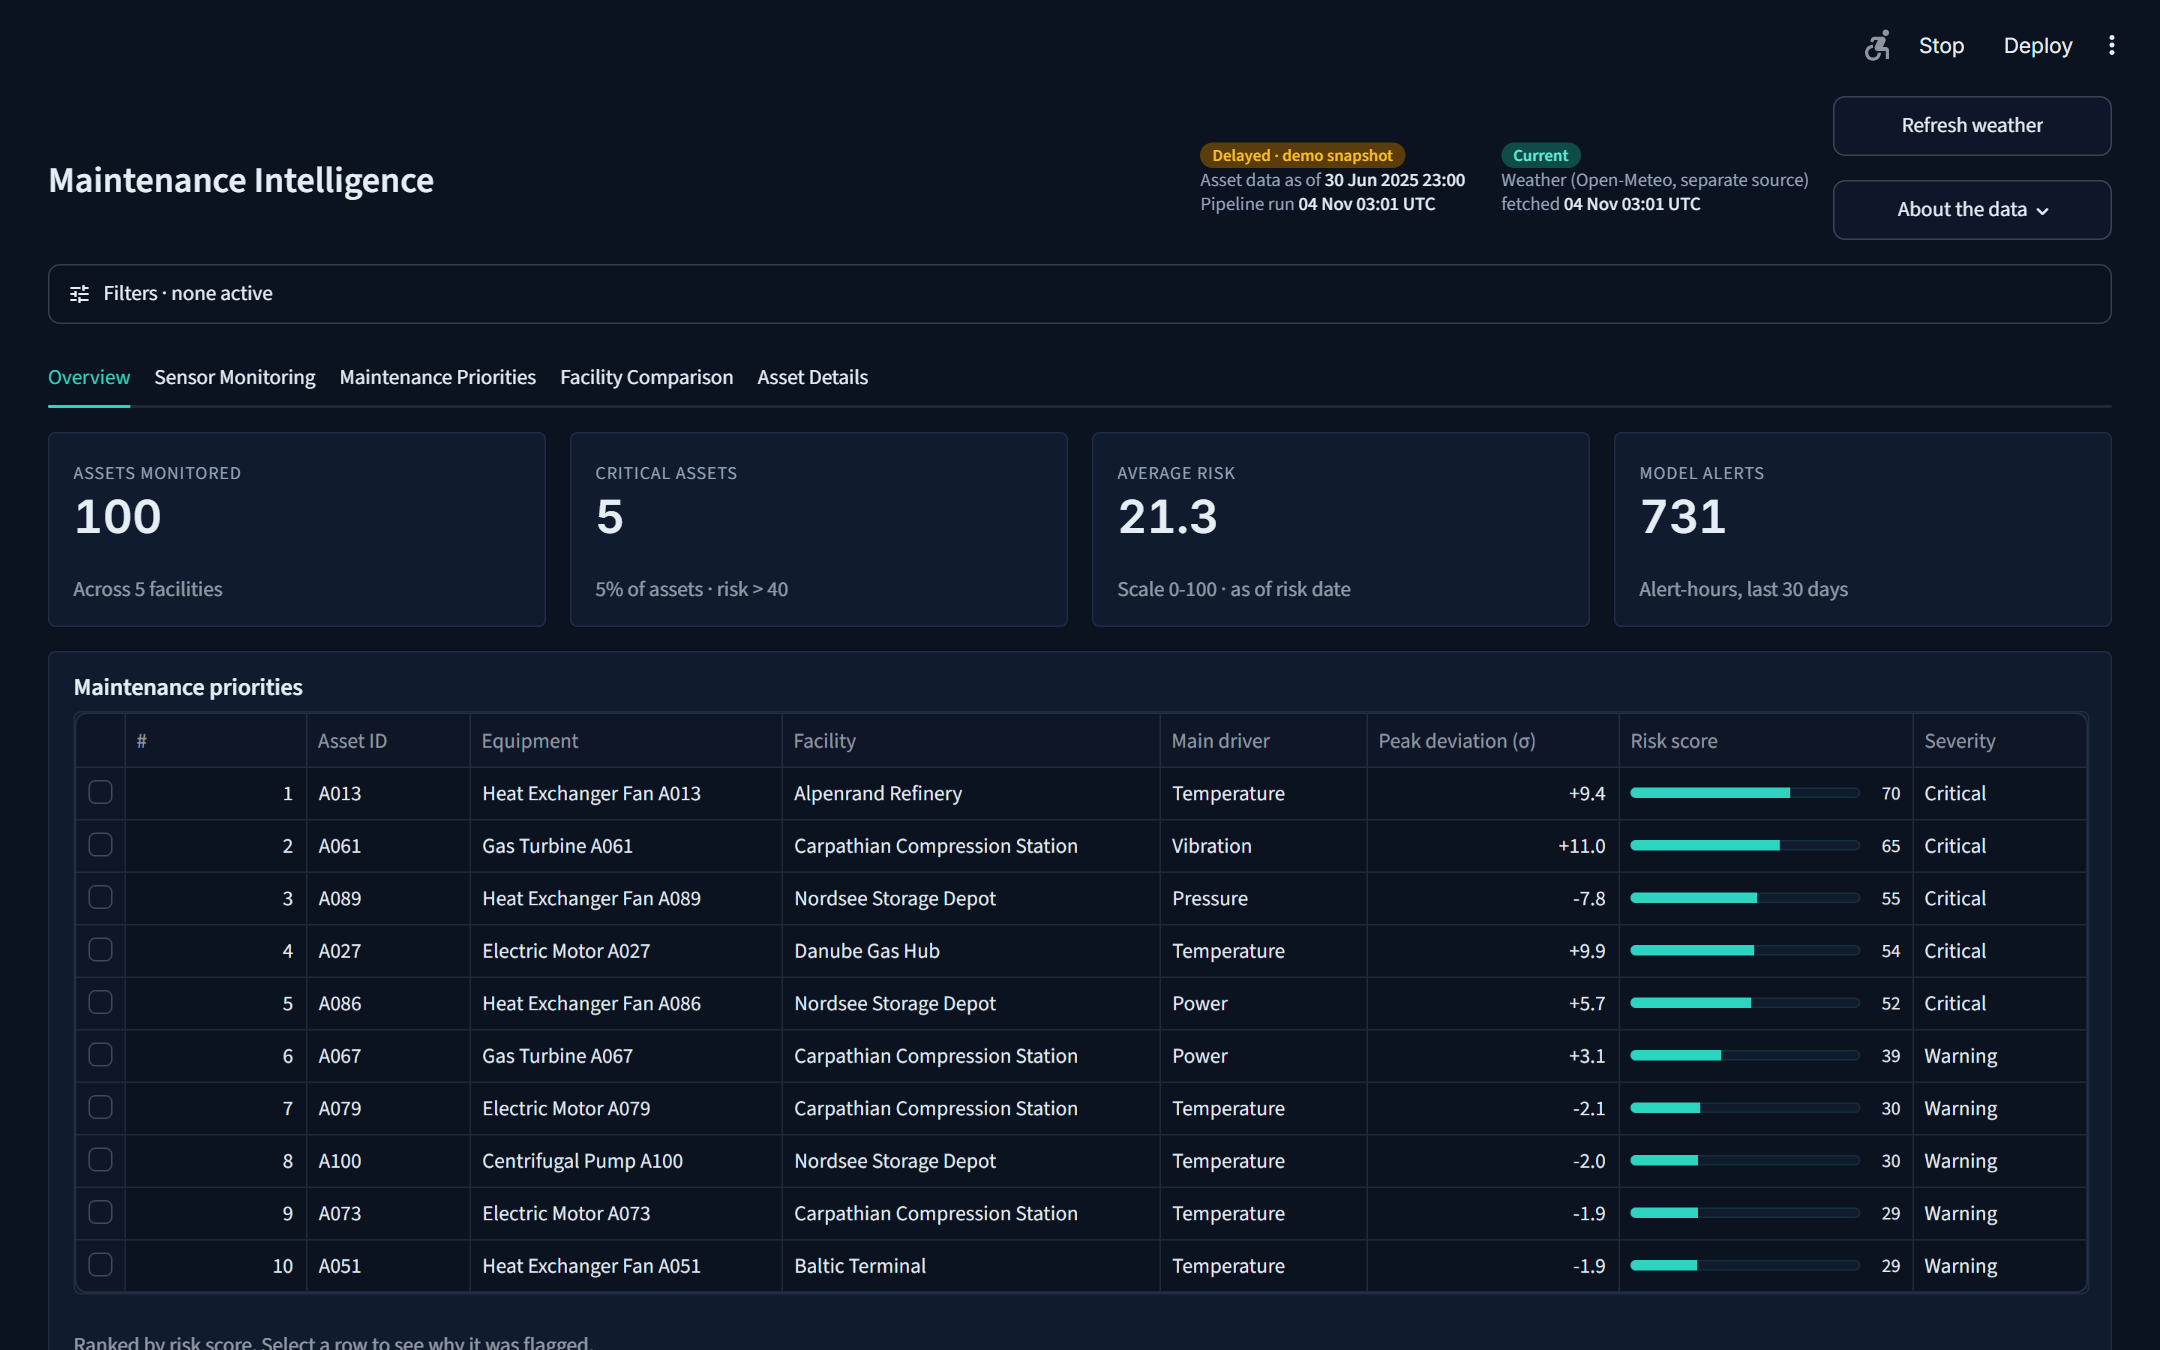
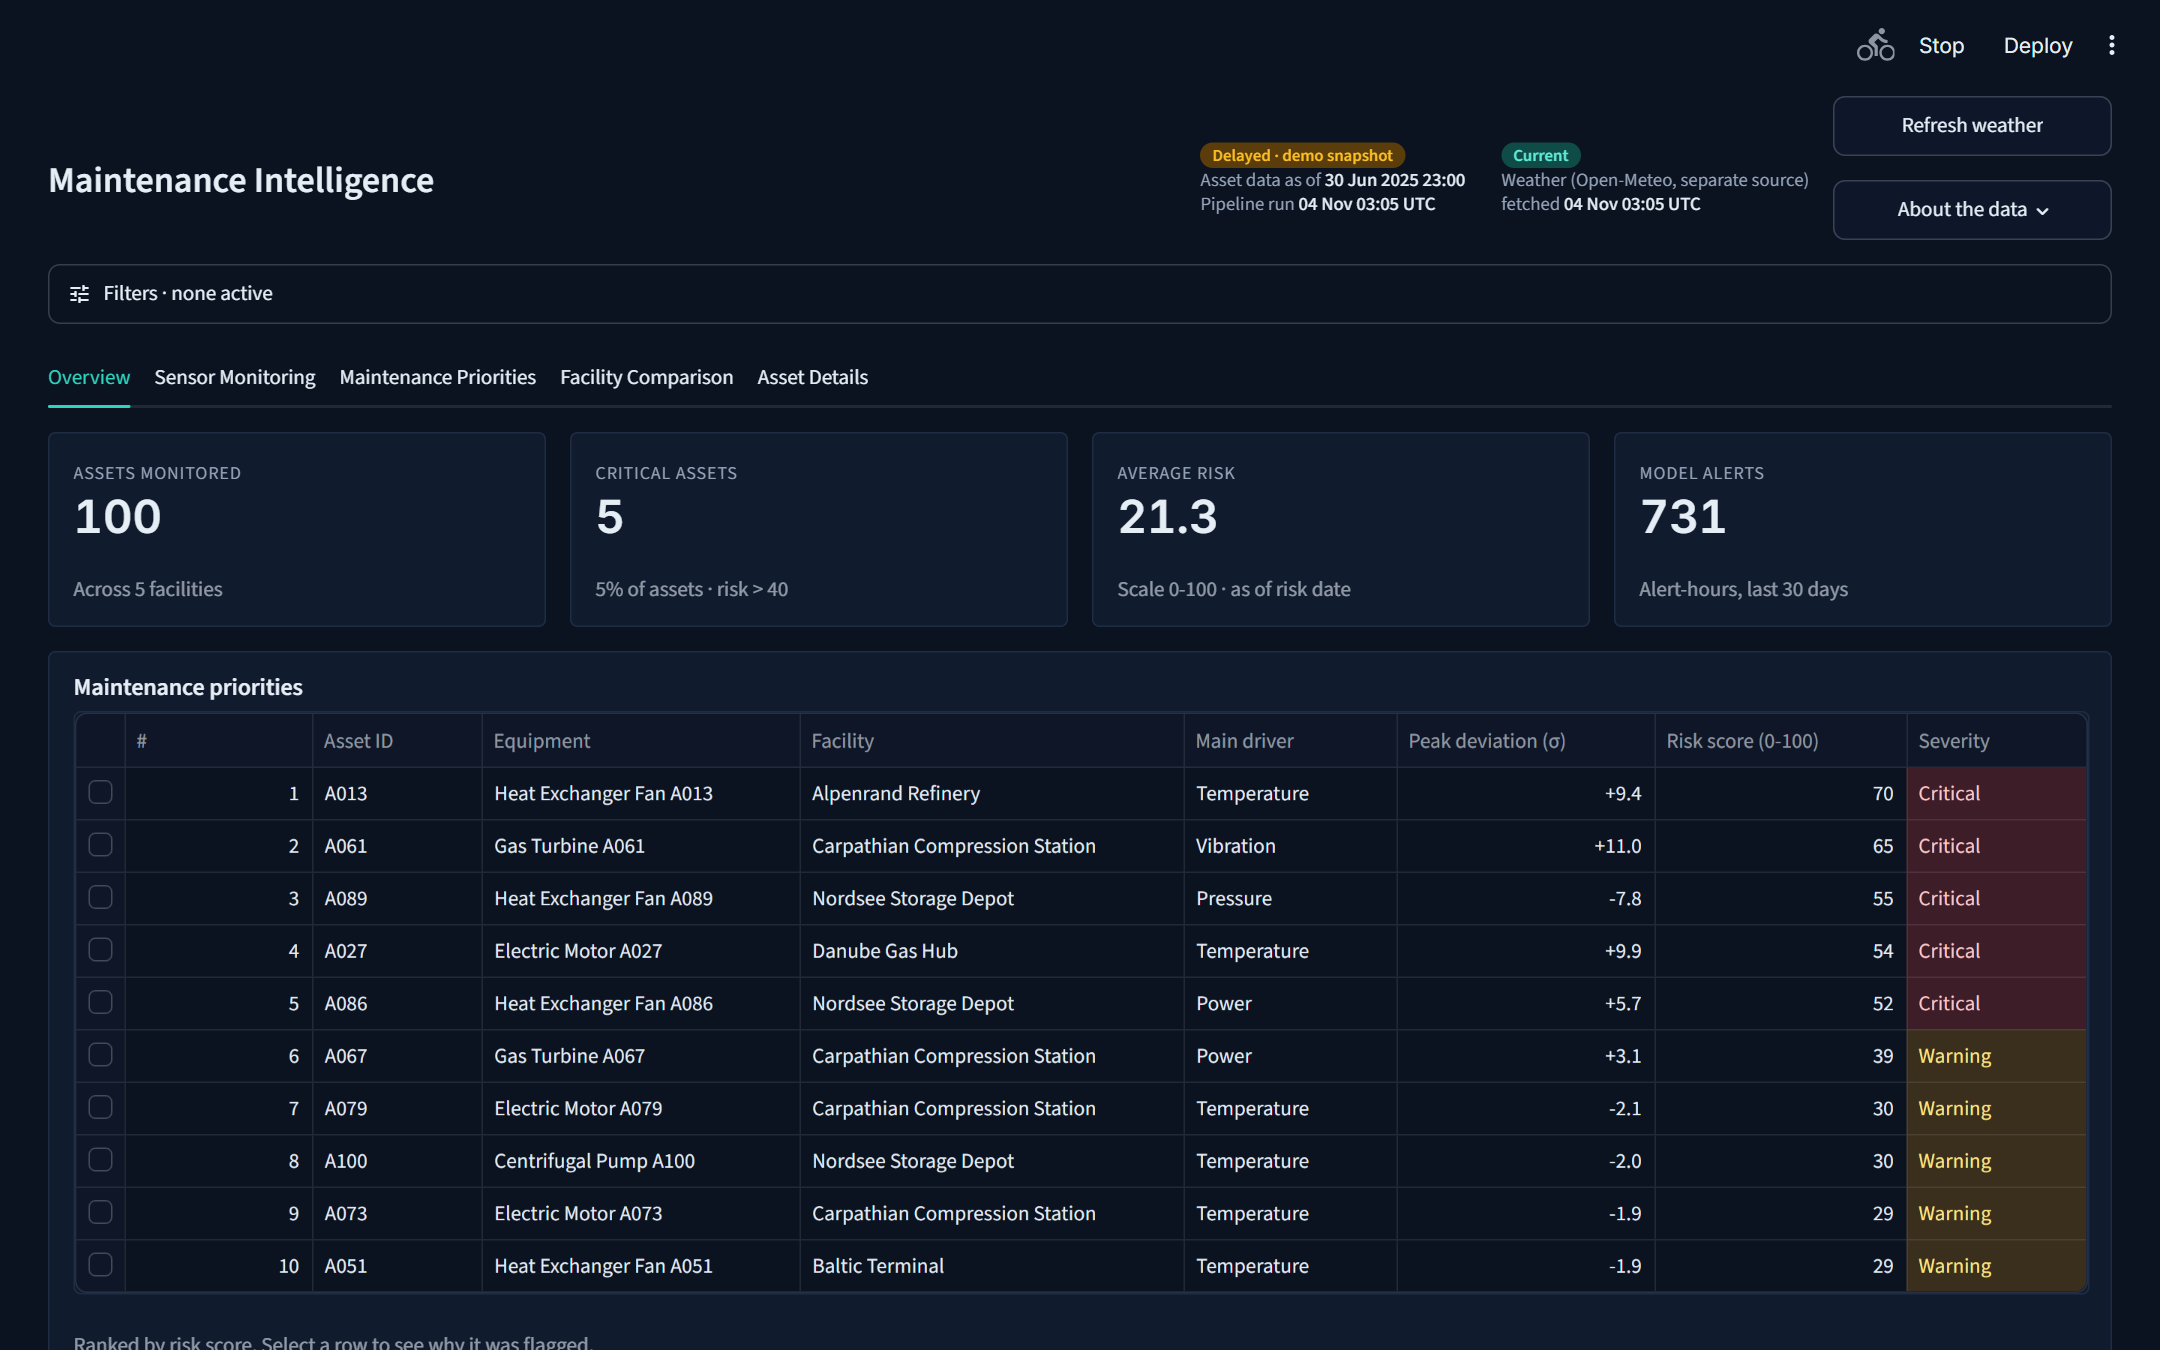
UI audit fixes: severity colours, consistent colour bands, Facility Comparison labels, mobile header

diff --git a/app.py b/app.py
@@ -30,8 +30,9 @@ button[data-baseweb="tab"][aria-selected="true"] { font-weight: 600; color: #2dd
 [class*="st-key-card"] [data-testid="stPlotlyChart"] { background: transparent; border: 0; padding: 0; }
 .fresh { display: flex; gap: 1.5rem; justify-content: flex-end; font-size: .78rem; color: #94a3b8; line-height: 1.35; }
 .fresh b { color: #e5edf5; font-weight: 500; }
-.pill { padding: 1px 8px; border-radius: 99px; font-size: .7rem; font-weight: 600; margin-right: .4rem; }
+.pill { white-space: nowrap; padding: 1px 8px; border-radius: 99px; font-size: .7rem; font-weight: 600; margin-right: .4rem; }
 .ok { background: #0f4c47; color: #5eead4; } .warn { background: #5a3d0a; color: #fbbf24; } .bad { background: #5a1414; color: #f87171; }
+@media (max-width: 640px) { .fresh { flex-direction: column; gap: .5rem; justify-content: flex-start; } .block-container { padding: 2.6rem 1rem 2rem; } }
 </style>""", unsafe_allow_html=True)
 pio.templates["mi"] = pio.templates["plotly_dark"]
 pio.templates["mi"].layout.update(paper_bgcolor="rgba(0,0,0,0)", plot_bgcolor="rgba(0,0,0,0)", font_family="Inter",
@@ -57,7 +58,8 @@ R, assets, fac = D["readings"], D["assets"], D["facilities"]
 COLORS = {"Low": "#14b8a6", "Medium": "#f59e0b", "High": "#ef4444"}  # teal / amber / red, always with a text label
 STATUS = {"Low": "Normal", "Medium": "Warning", "High": "Critical"}
 TAG = {"Low": ":green[Normal]", "Medium": ":orange[Warning]", "High": ":red[Critical]"}
-SCALE = [COLORS["Low"], COLORS["Medium"], COLORS["High"]]  # 15 -> 45 spans the Normal / Warning / Critical bands (25, 40)
+LO, HI = (25 - 15) / 30, (40 - 15) / 30  # Warning / Critical thresholds on the 15-45 colour range
+SCALE = [(0, COLORS["Low"]), (LO, COLORS["Low"]), (LO, COLORS["Medium"]), (HI, COLORS["Medium"]), (HI, COLORS["High"]), (1, COLORS["High"])]  # hard bands, not a blended gradient
 LAST = R.timestamp.max()
 H = 330  # standard chart height
 LBL = {"temperature_c": "Temperature (°C)", "vibration_mm_s": "Vibration (mm/s)", "pressure_bar": "Pressure (bar)", "power_kw": "Power (kW)"}
@@ -74,13 +76,21 @@ def sensor_fig(a, sensors, start, end, truth=True):
     fig = make_subplots(rows=len(sensors), cols=1, shared_xaxes=True, subplot_titles=[LBL[s] for s in sensors], vertical_spacing=0.08)
     ep = D["episodes"][(D["episodes"].asset_id == a) & (D["episodes"].end >= start) & (D["episodes"].start <= end)]
     for i, s in enumerate(sensors, 1):
-        fig.add_scatter(x=d.timestamp, y=d[s], mode="lines", line_width=1, name=s, showlegend=False, row=i, col=1)
+        fig.add_scatter(x=d.timestamp, y=d[s], mode="lines", line=dict(width=1, color="#94a3b8"), name=s, showlegend=False, row=i, col=1)
         al = d[d.alert]
         fig.add_scatter(x=al.timestamp, y=al[s], mode="markers", marker=dict(color=COLORS["High"], size=5),
                         name="Model alert", showlegend=i == 1, row=i, col=1)
         for e in ep.itertuples() if truth else []:
             fig.add_vrect(x0=e.start, x1=e.end, fillcolor="orange", opacity=0.2, line_width=0, row=i, col=1)
     return fig.update_layout(height=max(300, 230 * len(sensors)), margin=dict(t=30, b=10), legend_orientation="h")
+
+
+TINT = {"Critical": "background-color: rgba(239,68,68,.22); color: #fecaca", "Warning": "background-color: rgba(245,158,11,.2); color: #fde68a"}
+
+
+def tint(df, cols):
+    """Colour severity cells (text label stays, so colour is never the only cue)."""
+    return df.style.map(lambda v: TINT.get(v, ""), subset=cols)
 
 
 def reset():
@@ -149,11 +159,11 @@ with tabs[0]:
     with st.container(border=True, key="card_prio"):
         st.subheader("Maintenance priorities")
         top = T.head(10).reset_index(drop=True)
-        sel = st.dataframe(top.assign(rank=top.index + 1)[["rank", "asset_id", "asset_name", "facility", "driver_label", "peak_z", "risk", "status"]],
+        sel = st.dataframe(tint(top.assign(rank=top.index + 1)[["rank", "asset_id", "asset_name", "facility", "driver_label", "peak_z", "risk", "status"]], ["status"]),
                            hide_index=True, width="stretch", on_select="rerun", selection_mode="single-row", key="prio", column_config={
             "rank": st.column_config.NumberColumn("#", width="small"), "asset_id": "Asset ID", "asset_name": "Equipment", "facility": "Facility",
             "driver_label": "Main driver", "peak_z": st.column_config.NumberColumn("Peak deviation (σ)", format="%+.1f"),
-            "risk": st.column_config.ProgressColumn("Risk score", min_value=0, max_value=100, format="%.0f"), "status": "Severity"})
+            "risk": st.column_config.NumberColumn("Risk score (0-100)", format="%.0f"), "status": "Severity"})
         if sel.selection.rows:
             ss["d"] = top.asset_id[sel.selection.rows[0]]
             st.caption(f"**{ss['d']}**: {top.set_index('asset_id').explanation[ss['d']]}. Open the Asset Details tab for the full view.")
@@ -207,39 +217,41 @@ with tabs[0]:
                 "it does not estimate failure probability. The risk score blends anomalies with criticality and maintenance state to prioritise inspections.")
 
 with tabs[1]:
-    c = st.columns([2, 1, 1])
+    c = st.columns([2, 1, 1], vertical_alignment="bottom")
     a = c[0].selectbox("Asset", T.asset_id, format_func=lambda x: f"{x} · {T.set_index('asset_id').asset_name[x]}", key="m")
     s = c[1].selectbox("Sensor", ["All"] + SENSORS)
-    truth = c[2].checkbox("Show injected truth", False, help="Orange bands = synthetic fault episodes (evaluation labels)")
+    truth = c[2].toggle("Show injected truth", False, help="Orange bands = synthetic fault episodes (evaluation labels)")
     st.plotly_chart(sensor_fig(a, SENSORS if s == "All" else [s], as_of - pd.Timedelta(days=period), as_of, truth), width="stretch")
     st.caption("Red dots = Isolation Forest alerts. Idle (standby) hours show as low readings.")
 
 with tabs[2]:
-    n = int(st.number_input("Show top N assets", 1, len(T), min(15, len(T)), help=f"Shows the N highest-risk assets after filtering ({len(T)} match). Type a number or use +/-."))
+    n = int(st.columns([1, 4])[0].number_input("Show top N assets", 1, len(T), min(15, len(T)), help=f"Shows the N highest-risk assets after filtering ({len(T)} match). Type a number or use +/-."))
     top = T.head(n)
     cols = ["asset_id", "asset_type", "facility", "criticality", "driver_label", "peak_z", "risk", "status", "explanation"]
-    st.dataframe(top[cols].reset_index(drop=True), width="stretch", hide_index=True, height=min(740, 38 + 35 * n), column_config={
+    st.dataframe(tint(top[cols].reset_index(drop=True), ["status"]), width="stretch", hide_index=True, height=min(740, 38 + 35 * n), column_config={
         "asset_id": "Asset", "asset_type": "Type", "facility": "Facility", "criticality": "Criticality", "status": "Status",
         "driver_label": "Main driver", "peak_z": st.column_config.NumberColumn("Peak deviation (σ)", format="%+.1f"),
         "explanation": st.column_config.TextColumn("Why", width="large"),
-        "risk": st.column_config.ProgressColumn("Risk", min_value=0, max_value=100, format="%.1f")})
+        "risk": st.column_config.NumberColumn("Risk (0-100)", format="%.1f")})
     st.download_button("Download ranking (CSV)", top[cols].to_csv(index=False), "maintenance_priorities.csv")
     st.caption("risk = 100 × (0.5·sensor deviation + 0.3·alert share + 0.2·maintenance overdue) × criticality multiplier (0.7–1.0)")
 
 with tabs[3]:
     g = T.groupby("facility").agg(avg_risk=("risk", "mean"), critical=("level", lambda x: (x == "High").sum()),
-                                  alert_share=("alert_share", "mean"), assets=("asset_id", "count")).reset_index()
+                                  warning=("level", lambda x: (x == "Medium").sum()), alert_share=("alert_share", "mean"), assets=("asset_id", "count")).reset_index()
     a, b = st.columns(2)
-    a.plotly_chart(px.bar(g, x="facility", y="avg_risk", color="avg_risk", color_continuous_scale="OrRd", title="Average risk by facility"), width="stretch")
-    b.plotly_chart(px.imshow(T.pivot_table(index="facility", columns="asset_type", values="risk", aggfunc="mean").round(1),
-                             text_auto=True, color_continuous_scale="OrRd", title="Average risk: facility × asset type"), width="stretch")
-    st.dataframe(g.round(2), width="stretch", hide_index=True)
+    a.plotly_chart(px.bar(g.sort_values("avg_risk"), x="avg_risk", y="facility", orientation="h", text_auto=".1f", color="avg_risk", color_continuous_scale=SCALE, range_color=(15, 45),
+                          title="Average risk by facility", labels={"avg_risk": "Average risk (0-100)", "facility": ""}).update_traces(textfont_color="#0b1220").update_layout(height=H, coloraxis_showscale=False), width="stretch")
+    b.plotly_chart(px.imshow(T.pivot_table(index="facility", columns="asset_type", values="risk", aggfunc="mean").round(1), text_auto=True, color_continuous_scale=SCALE, zmin=15, zmax=45,
+                             title="Average risk: facility × equipment type", labels={"color": "Avg risk", "x": "", "y": ""}, aspect="auto").update_traces(textfont_color="#0b1220").update_layout(height=H, margin=dict(l=10, r=30, t=40, b=90)), width="stretch")
+    st.dataframe(g.round(2), width="stretch", hide_index=True, column_config={
+        "facility": "Facility", "avg_risk": st.column_config.NumberColumn("Average risk", format="%.1f"), "critical": "Critical", "warning": "Warning",
+        "alert_share": st.column_config.NumberColumn("Share of hours alerted", format="percent"), "assets": "Assets"})
     w = D["weather"].merge(fac[["facility_id", "name"]], on="facility_id")
     w = w[w.name.isin(fsel)].groupby(["name", pd.Grouper(key="timestamp", freq="D")])[["ambient_temp_c", "humidity_pct"]].mean().reset_index()
     a, b = st.columns(2)
-    a.plotly_chart(px.line(w, x="timestamp", y="ambient_temp_c", color="name", title="Daily ambient temperature (°C, historical)"), width="stretch")
-    b.plotly_chart(px.line(w, x="timestamp", y="humidity_pct", color="name", title="Daily relative humidity (%, historical)"), width="stretch")
-
+    a.plotly_chart(px.line(w, x="timestamp", y="ambient_temp_c", color="name", title="Daily ambient temperature (°C, historical)", labels={"timestamp": "", "ambient_temp_c": "°C", "name": ""}).update_layout(legend=dict(orientation="h", y=-0.2)), width="stretch")
+    b.plotly_chart(px.line(w, x="timestamp", y="humidity_pct", color="name", title="Daily relative humidity (%, historical)", labels={"timestamp": "", "humidity_pct": "%", "name": ""}).update_layout(legend=dict(orientation="h", y=-0.2)), width="stretch")
 with tabs[4]:
     a = st.selectbox("Asset", T.asset_id, format_func=lambda x: f"{x} · {T.set_index('asset_id').asset_name[x]}", key="d")
     row = T.set_index("asset_id").loc[a]

diff --git a/README.md b/README.md
@@ -28,6 +28,9 @@ Both versions are Streamlit apps on the same analysis (`mi/`), so the risk score
 | Sensor charts | Raw field names (`temperature_c`), default colours, injected-fault overlay always on | Names with units (Temperature (°C)), shared hover, light grid, fault overlay off by default | Operational view first; the evaluation overlay is opt-in. |
 | Asset details | Purple chart, large blue banner, and a "now" value that seemed to contradict the 7-day peak | Chart centred on zero with ±3σ limits, red only outside them; findings labelled "7 days to <date>" and the chart labelled "right now" | The two numbers measure different things and now say so. |
 | Styling | 10 px rounded boxes | 5 px corners and fewer nested borders | Less of the generic dashboard look. |
+| Severity colour | Teal progress bar even for Critical assets; severity word uncoloured | Severity cells tinted red/amber, with the word kept; charts use the same three fixed bands instead of a blended gradient | Colour now means the same everywhere and is never the only cue. |
+| Facility Comparison | Raw field names, a red/cream scale, slanted labels | Readable labels, horizontal bars, shared severity colours, formatted table | Consistent with the rest of the app. |
+| Small screens | Status badges wrapped over several lines | Badges stay on one line and stack cleanly on phones | Usable on a phone. |
 
 | Version 1 | Version 2 |
 |---|---|
